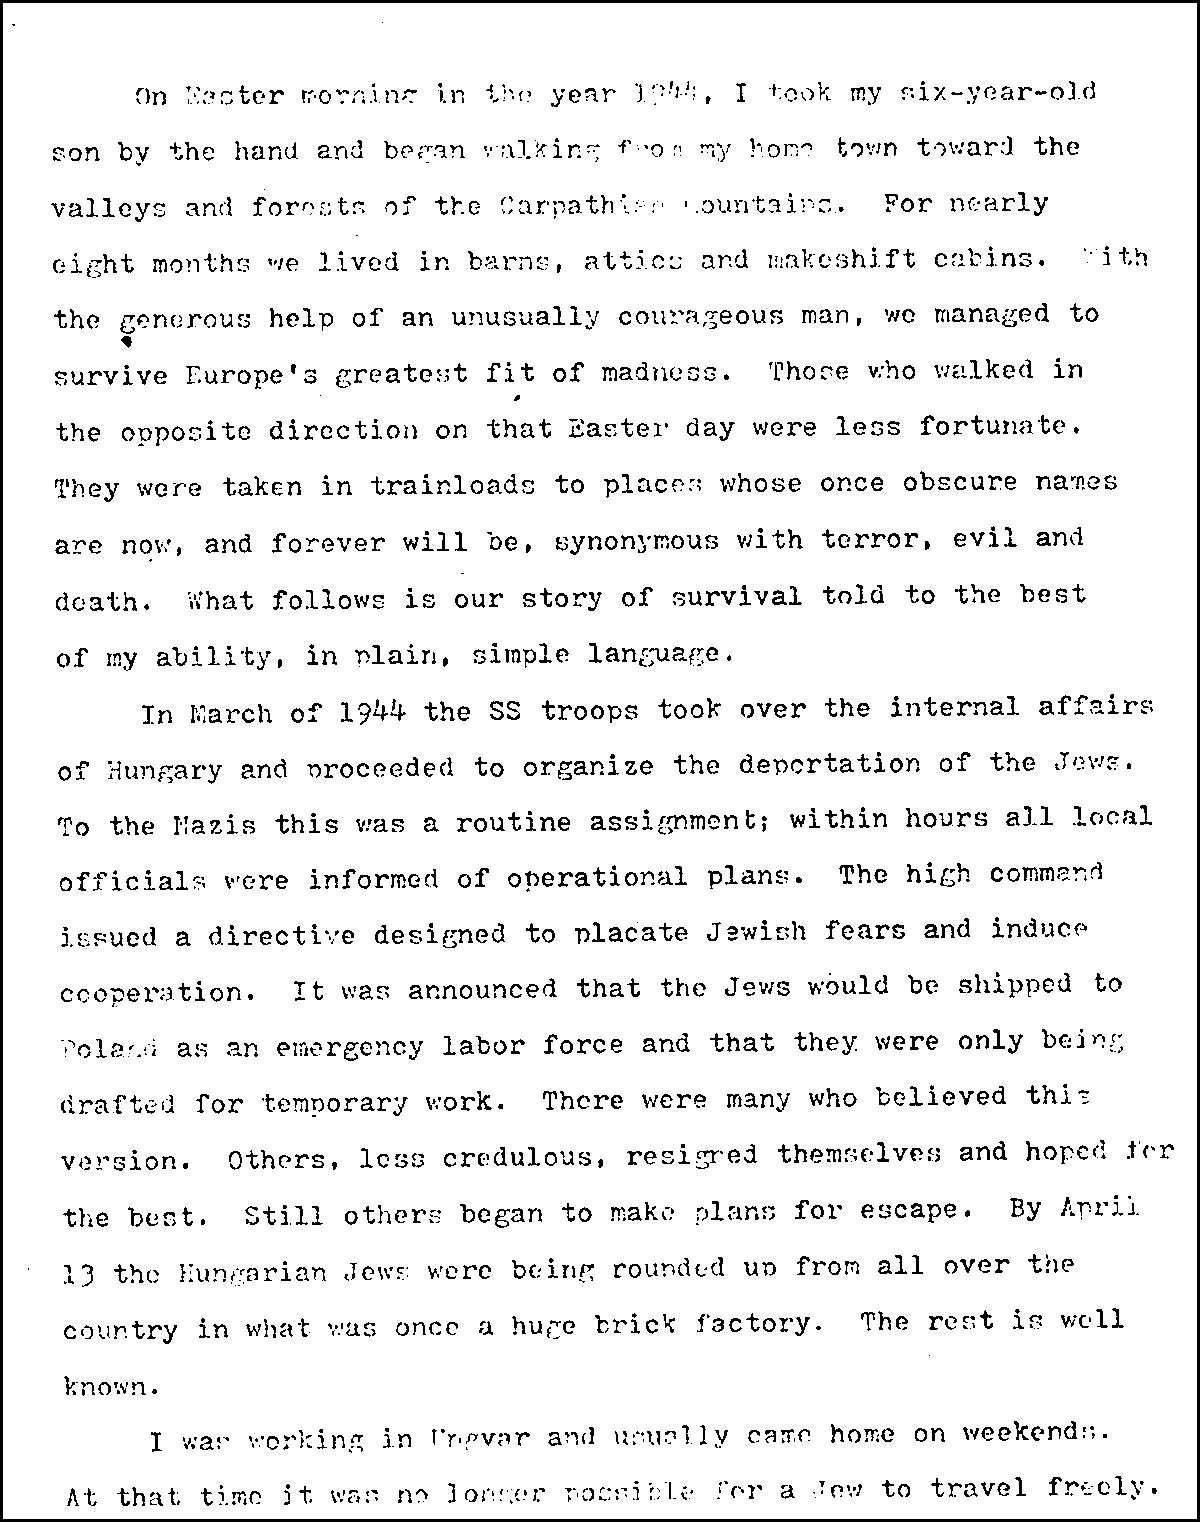
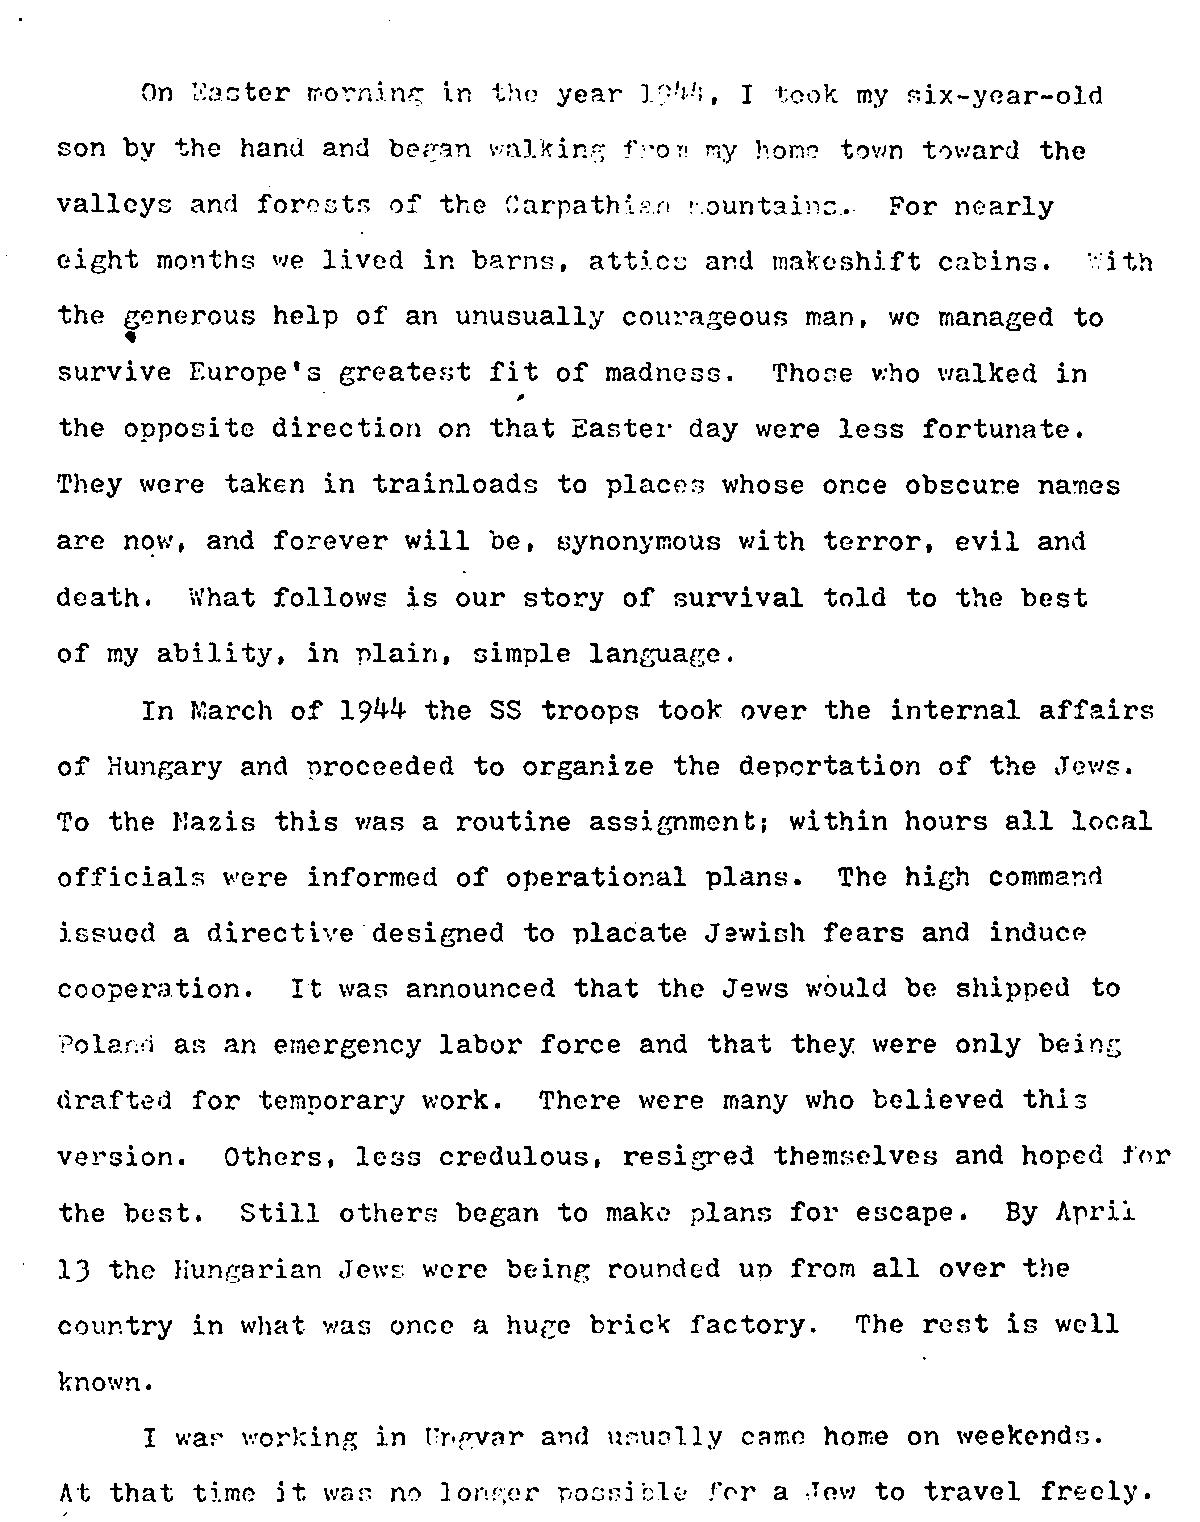
Fix ImageProcessing / Rotation.py bug

diff --git a/ImageProcessing/Rotation.py b/ImageProcessing/Rotation.py
@@ -10,12 +10,14 @@ import Contour as tour
 
 def GetSkewAngle(
         img,
-        threshold_px=None,
-        is_binary_inv=False,
-        dilate_img=None,
-        kernel = np.ones((5,30)),
-        is_show=False,
-        is_otsu=True):
+        dilate_img      =   None,
+        threshold_px    =   None,
+        kernel          =   np.ones((2,30)),
+        kernel_area     =   9,
+        is_binary_inv   =   True,
+        is_otsu         =   True,
+        is_show         =   False
+        ):
     # https://github.com/wjbmattingly/ocr_python_textbook/blob/main/02_02_working%20with%20opencv.ipynb
     # https://becominghuman.ai/how-to-automatically-deskew-straighten-a-text-image-using-opencv-a0c30aed83df
 
@@ -35,10 +37,13 @@ def GetSkewAngle(
     if not isinstance(dilate_img,np.ndarray):
         dilate_img = tour.DefaultDilateImage(
             img=new_img,
-            threshold_px=threshold_px,
-            is_binary_inv=is_binary_inv,
-            kernel = kernel,
-            is_otsu=is_otsu)
+            threshold_px    =   threshold_px    ,   
+            kernel          =   kernel          ,   
+            kernel_area     =   kernel_area     ,   
+            is_binary_inv   =   is_binary_inv   ,   
+            is_otsu         =   is_otsu         ,   
+            is_show         =   is_show         ,   
+            )
         if is_show==True:
             show.ShowImage(dilate_img,'DefaultDilateImage')
 
@@ -83,15 +88,35 @@ def GetSkewAngle(
 
     return angle
 
-def Rotate(img, angle=None,threshold_px=None,is_binary_inv=False,dilate_img=None,is_show=False):
+def Rotate(
+        img, 
+        angle           =   None,
+        dilate_img      =   None,
+        threshold_px    =   None,
+        kernel          =   np.ones((2,30)),
+        kernel_area     =   9,
+        is_binary_inv   =   True,
+        is_otsu         =   True,
+        is_show         =   False
+        ):
     (h, w) = img.shape[:2]
     center = (w // 2, h // 2)
     if not isinstance(angle,(int,float)):
-        if not isinstance(dilate_img,np.ndarray):
-            angle = GetSkewAngle(img,threshold_px=threshold_px,is_binary_inv=is_binary_inv,is_show=is_show)
-        else:
-            angle = GetSkewAngle(img,threshold_px=threshold_px,is_binary_inv=is_binary_inv,dilate_img=dilate_img,is_show=is_show)
+        angle = GetSkewAngle(
+            img,
+            dilate_img      =   dilate_img      ,
+            threshold_px    =   threshold_px    ,
+            kernel          =   kernel          ,
+            kernel_area     =   kernel_area     ,
+            is_binary_inv   =   is_binary_inv   ,
+            is_otsu         =   is_otsu         ,
+            is_show         =   is_show         ,
+            )
     rotation_matrix = cv2.getRotationMatrix2D(center, angle, 1.0)
+    if is_show==True:
+        print('rotation_matrix\n',rotation_matrix)
+        print('Reported by ImageProcessing / Rotation.py / def Rotate')
+        show.ShowImage(img,'Rotated Image')
     return cv2.warpAffine(
         img, 
         rotation_matrix, 

diff --git a/ImageProcessing/Contour.py b/ImageProcessing/Contour.py
@@ -16,7 +16,8 @@ def DefaultDilateImage(
         kernel_area     =   9,
         is_binary_inv   =   True,
         is_otsu         =   True,
-        is_show         =   False):
+        is_show         =   False
+        ):
     dilate_img = GrayImage(img)    
     dilate_img = GaussBlur(dilate_img,OddKernelArea(kernel_area))
     if isinstance(threshold_px, (int,float)):
@@ -27,7 +28,7 @@ def DefaultDilateImage(
     # kernel = cv2.getStructuringElement(cv2.MORPH_RECT, (30, 5))
     dilate_img = cv2.dilate(dilate_img, kernel, iterations=2)
     if is_show==True:
-        show.ShowImage(dilate_img,'Contour.py')
+        show.ShowImage(dilate_img,'DefaultDilateImage')
     return dilate_img
 
 #####################################################################################################################

diff --git a/exPyDH01_Page/Preprocess.py b/exPyDH01_Page/Preprocess.py
@@ -14,13 +14,22 @@ import FFT as fft
 from PIL import Image
 from Zoom import RemoveBorders,Zoom
 import cv2
-
+import Contour as tour
 
 img_path = '/Users/imac/Desktop/JOCR_SOBA/exPyDH01_Page/OriginalImage/img.jpg'
-img_o = show.ReadImage(img_path)
-img = Zoom(img_o,1.23)
+img = show.ReadImage(img_path)
+img = Zoom(img,1.23)
 img = Rotate(img,is_show=True)
-img = GrayImage(img)
+'''
+original_angle: 89.46703338623047
+output_angle__: -0.5329666137695312
+Reported by ImageProcessing / Rotation.py / def GetSkewAngle
+
+rotation_matrix
+ [[ 0.99995674 -0.00930189  7.10469492]
+ [ 0.00930189  0.99995674 -5.54820932]]
+Reported by ImageProcessing / Rotation.py / def Rotate
+'''
 
 ost_img = thresh.OtsuBinaryPx(img)
 show.SaveImage(ost_img,'OtsuBinaryPx')

diff --git a/ImageProcessing/FFT.py b/ImageProcessing/FFT.py
@@ -63,10 +63,10 @@ def SaveFFT(img,img_title,folder='FFT',fileformat='jpg',is_editfft=False):
     img = (img*255).astype(np.uint8) 
     SaveImage(img,img_title,folder=folder,fileformat=fileformat)
 
-def GetFFT(img,is_show=False,fft_size=None):
+def GetFFT(img,is_show=False,fft_size=None,scale=255):
     # https://docs.opencv.org/4.x/de/dbc/tutorial_py_fourier_transform.html
     img = GrayImage(img)
-    img = img / np.float32(255)
+    img = img / np.float32(scale)
     # dft is the array that contains complex numbers.
     dft = np.fft.fft2(img,fft_size)          
     # zero frequency component of dft will be at top left corner. 

diff --git a/exPyDH01_Page/Main.py b/exPyDH01_Page/Main.py
@@ -10,9 +10,9 @@ img_paths=[
     '/Users/imac/Desktop/JOCR_SOBA/exPyDH01_Page/Image/ThickFont.jpg',
 ]
 
-read.SaveText(img_paths[0],'Original')
-read.SaveText(img_paths[1],'OtsuBinaryPx')
-read.SaveText(img_paths[2],'ThickFont')
+read.SaveTextFromImage(img_paths[0],'Original')
+read.SaveTextFromImage(img_paths[1],'OtsuBinaryPx')
+read.SaveTextFromImage(img_paths[2],'ThickFont')
 
 '''
 python3 Main.py
